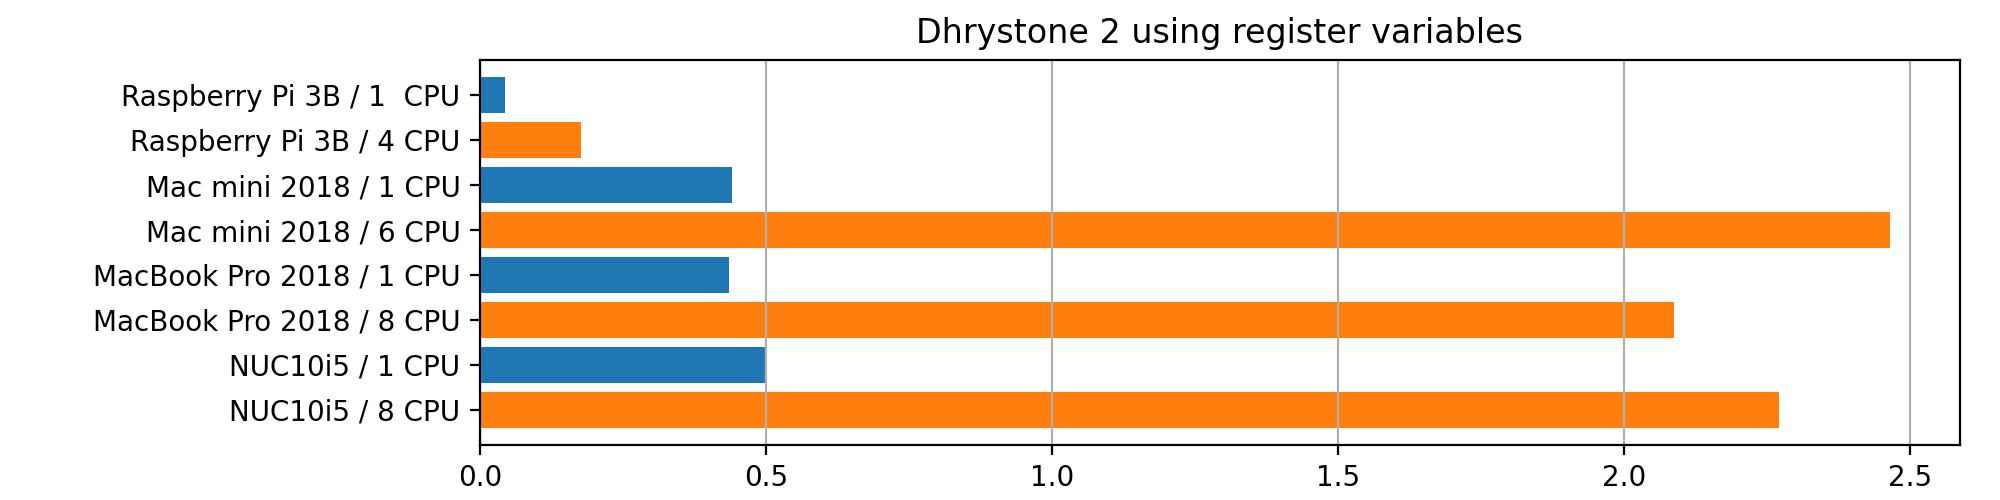
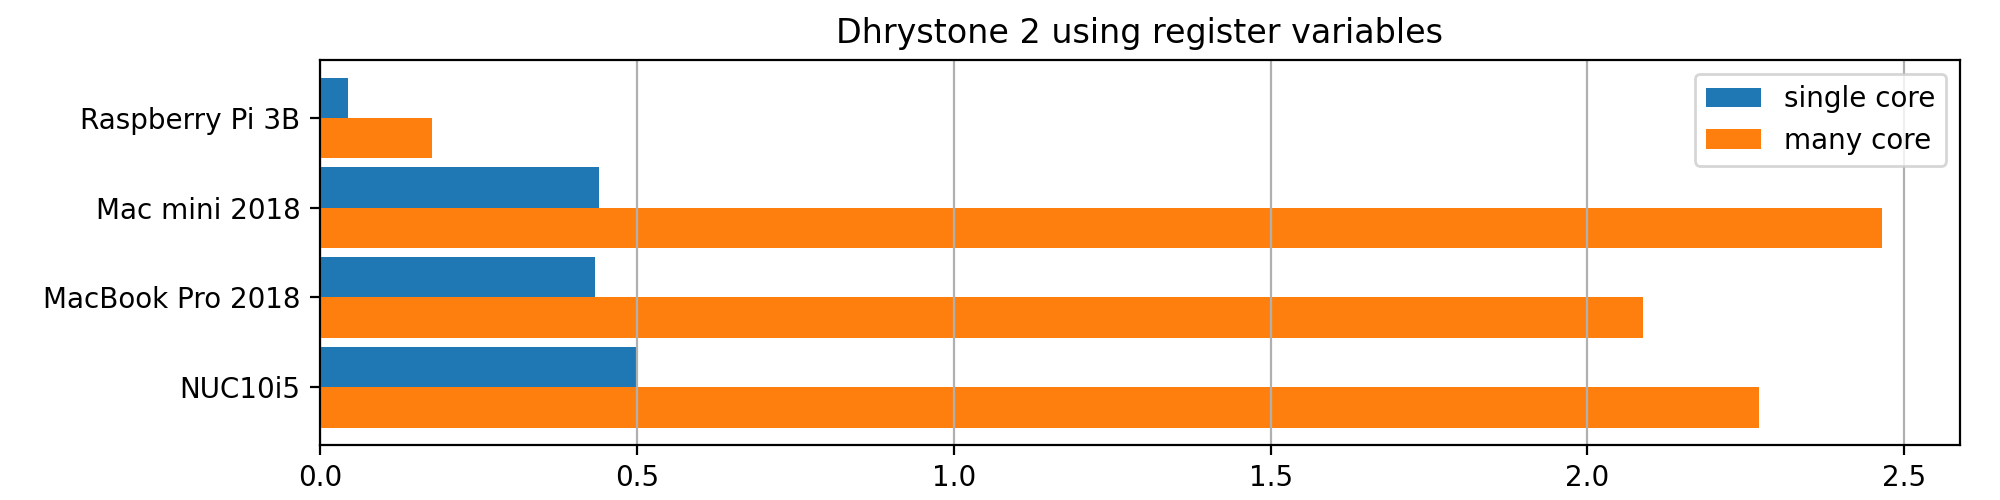
improve bar chart

diff --git a/benchmark.py b/benchmark.py
@@ -3,36 +3,46 @@
 
 import pandas as pd
 import matplotlib.pyplot as plt
+import re
+import numpy as np
 
 csvfile = "UnixBench.csv"
 
-df = pd.read_csv(csvfile)
-length = len(df)
+df = pd.read_csv(csvfile, index_col=0)
 
 def make_chart(idx):
 
-    df2 = df.loc[idx]
-    testname = df2[df2.index[0]]
-    index = df2.index[1:]
-    data = [df2[i] for i in index]
-    colorlist = ["tab:blue" if i % 2 == 0 else "tab:orange" for i in range(len(data))]
-    
-    fig = plt.figure(figsize=(10, 2.5), dpi=100)
-
-    plt.barh(index, data, color=colorlist)
-    plt.grid(axis='x')
-    plt.title(testname)
-    plt.subplots_adjust(left=0.24, right=0.98)
+    title = df.index[idx]
+    df2 = df.loc[title]
+	
+    cols = len(df2)
+    index = [df2.index[i] for i  in range(0, cols, 2)]
+    index = [re.sub(" / [0-9 CPU]*", "", str) for str in index]
+    single = [df2[i] for i  in range(0, cols, 2)]
+    many = [df2[i] for i  in range(1, cols, 2)]
+	
+    fig = plt.figure(figsize=(10, 2.5))
+	
+    bar_width = 0.45
+    x = np.arange(len(index))
+	
+    plt.title(title)
+    plt.barh(x - bar_width/2, single, bar_width, color="tab:blue", label="single core")
+    plt.barh(x + bar_width/2, many, bar_width, color="tab:orange", label="many core")
+    plt.legend()
+    plt.subplots_adjust(left=0.16, right=0.98)
     plt.gca().invert_yaxis() # 上下並びを逆順に
-
+    plt.yticks(x, index)
+    plt.grid(axis='x')
     plt.pause(5)
-    # plt.show()
     fig.savefig("images/" + str(idx) + ".png")
-    
 
-for i in range(length):
+##
+##
+##
+for i in range(len(df)):
     make_chart(i)
-    
+
 # import pdb; pdb.set_trace()
 
 ### Local Variables: ###
